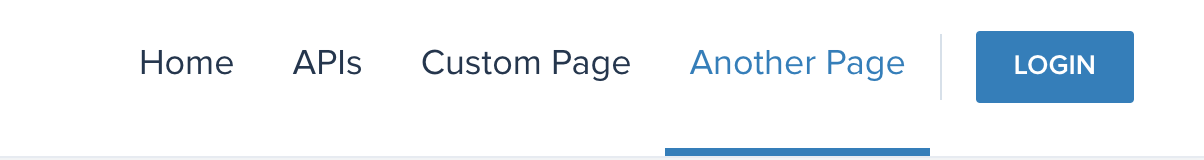
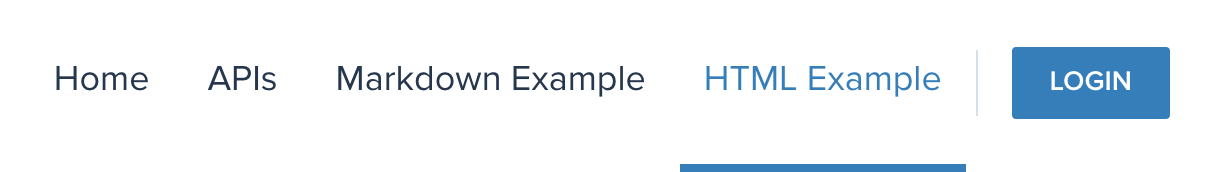
readme

Changed region(s): [[0.0307, 0.1875, 0.9834, 0.7188], [0.5532, 0.9062, 0.799, 1.0]]

diff --git a/projects/ui/src/Components/CustomPage/Content/CustomHtmlPage.tsx b/projects/ui/src/Components/CustomPage/Content/CustomHtmlPage.tsx
@@ -1,13 +1,21 @@
 import { useContext } from "react";
 import { AppUtilsContext } from "../../../Context/AppUtilsContext";
+import { CustomPage } from "../../../user_variables.tmplr";
 import { footerHeightPx } from "../../Structure/Footer";
 import { headerHeightPx } from "../../Structure/Header.style";
 
-const CustomHtmlPage = ({ customPageUrl }: { customPageUrl: string }) => {
+const CustomHtmlPage = ({
+  customPage,
+  customPageUrl,
+}: {
+  customPage: CustomPage;
+  customPageUrl: string;
+}) => {
   const { windowInnerWidth, windowInnerHeight } = useContext(AppUtilsContext);
 
   return (
     <iframe
+      title={customPage.title}
       style={{
         width: `${windowInnerWidth}px`,
         height: `${windowInnerHeight - footerHeightPx - headerHeightPx}px`,

diff --git a/projects/ui/src/Components/CustomPage/CustomPageLanding.tsx b/projects/ui/src/Components/CustomPage/CustomPageLanding.tsx
@@ -103,7 +103,9 @@ const CustomPageLanding = () => {
       />
     );
   }
-  return <CustomHtmlPage customPageUrl={customPage.path} />;
+  return (
+    <CustomHtmlPage customPage={customPage} customPageUrl={customPage.path} />
+  );
 };
 
 export default CustomPageLanding;

diff --git a/projects/ui/public/pages/html-example.html b/projects/ui/public/pages/html-example.html
@@ -8,7 +8,7 @@
       }
     </style>
 
-    <h1>Custom HTML Page</h1>
+    <h1>Example HTML Page</h1>
 
     <h2>Section 1</h2>
 

diff --git a/README.md b/README.md
@@ -137,7 +137,7 @@ You can add these environment variables to a `.env.local` file in the `projects/
 - `VITE_HOME_IMAGE_URL` - This is an optional parameter to set the image URL on the home page.
 - `VITE_APIS_IMAGE_URL` - This is an optional parameter to set the image URL on the apis page.
 - `VITE_LOGO_IMAGE_URL` - This is an optional parameter to set the image URL for the logo in the upper left.
-- `VITE_CUSTOM_PAGES` - This is an optional value that describes Markdown or HTML custom pages that have been added to the `projects/ui/src/public` folder. In order to test this feature out out with the provided examples, set your `VITE_CUSTOM_PAGES` value to: `'[{"title": "Custom Page", "path": "/pages/custom-page.md"}, {"title": "Another Page", "path": "/pages/another-page.html"}]'`. When the website is opened, there should be two new pages in the top navigation bar (one for the `"Custom Page"` using Markdown, and one for `"Another Page"`, using HTML).
+- `VITE_CUSTOM_PAGES` - This is an optional value that describes Markdown or HTML custom pages that have been added to the `projects/ui/src/public` folder. In order to test this feature out out with the provided examples, set your `VITE_CUSTOM_PAGES` value to: `'[{"title": "Markdown Example", "path": "/pages/markdown-example.md"}, {"title": "HTML Example", "path": "/pages/html-example.html"}]'`. When the website is opened, there should be two new pages in the top navigation bar (one for the `"Custom Page"` using Markdown, and one for `"Another Page"`, using HTML).
   ![custom pages example](readme_assets/custom-pages-navbar.png)
 
 #### Environment Variables for PKCE Authorization Flow

diff --git a/projects/ui/public/pages/markdown-example.md b/projects/ui/public/pages/markdown-example.md
@@ -1,21 +1,21 @@
-# Markdown Page Test (h1)
+# Example Markdown Page (#)
 
 This is a custom Markdown page test.
 
-## Section 1 (h2)
+## Section 1 (##)
 
 - Supports bullet points
 - Supports bullet points
 
-### 1.1 (h3)
+### 1.1 (###)
 
 Testing that **Bold works** here.
 
-#### 1.1.1 (h4)
+#### 1.1.1 (####)
 
 Testing that _Italics works_ here.
 
-##### 1.1.1 (h5)
+##### 1.1.1 (#####)
 
 Links work: [www.solo.io](www.solo.io)
 
